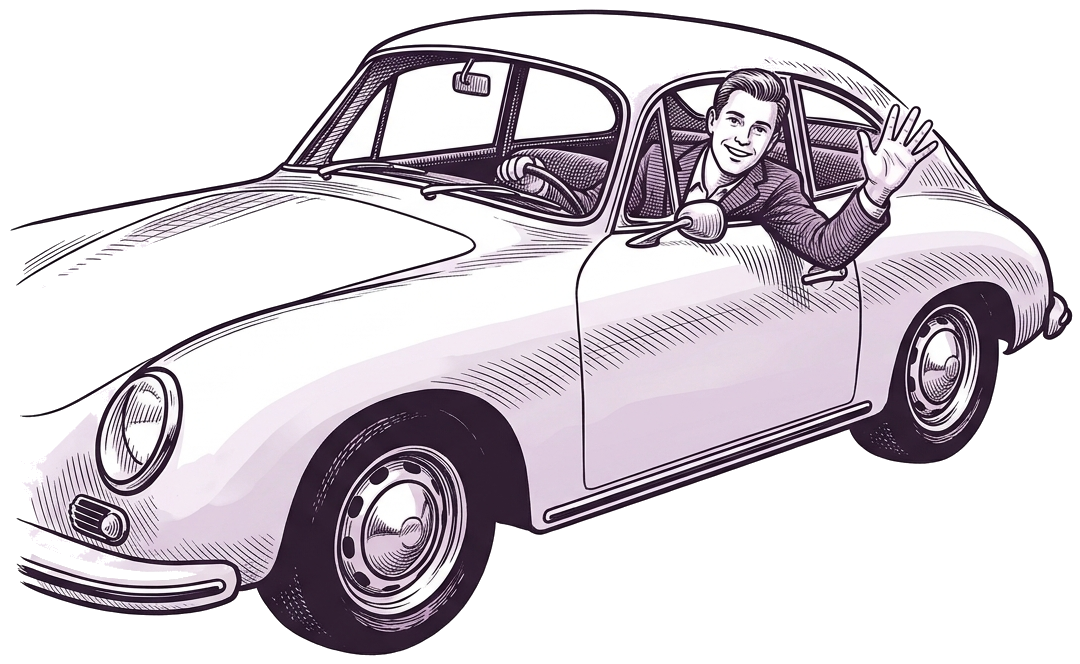
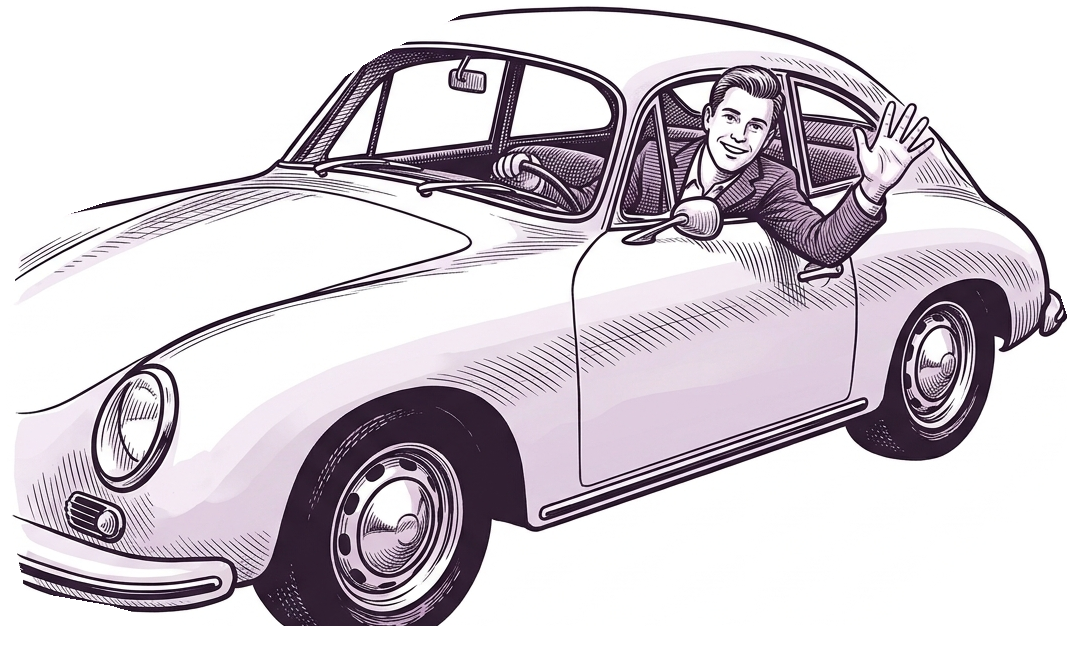
style(landing): refine serpentine S-curve highway and position opaque car above road

Changed region(s): [[0.0, 0.0, 1.0, 1.0], [0.0, 0.3333, 0.0307, 0.3636]]

diff --git a/src/app/auth/login/page.tsx b/src/app/auth/login/page.tsx
@@ -296,53 +296,63 @@ export default function LoginPage() {
               className="opacity-95 dark:opacity-85"
             />
 
-            {/* THE ROAD: Sweeping Highway Perspective from Right Horizon into Foreground */}
+            {/* SERPENTINE S-HIGHWAY: Gentle undulating curves (S-structure) */}
             {/* Road Bed / Shadow Base */}
             <path
-              d="M 940 360 C 780 430, 520 540, 40 900 L 460 900 C 740 650, 910 500, 1010 360 Z"
+              d="M 890 260 
+                 C 740 360, 560 480, 600 580 
+                 C 640 680, 360 780, 160 900 
+                 L 580 900 
+                 C 740 800, 780 700, 740 600 
+                 C 700 500, 840 370, 950 260 Z"
               fill="var(--spark-border)"
               filter="url(#roadShadow)"
-              className="opacity-80 dark:opacity-50"
+              className="opacity-75 dark:opacity-40"
             />
 
             {/* Road Surface */}
             <path
-              d="M 950 360 C 790 432, 538 544, 70 900 L 430 900 C 715 652, 895 502, 1000 360 Z"
+              d="M 895 260 
+                 C 745 362, 568 482, 608 580 
+                 C 648 678, 370 782, 180 900 
+                 L 560 900 
+                 C 725 798, 768 698, 730 600 
+                 C 692 502, 835 372, 945 260 Z"
               fill="var(--spark-surface-selected)"
-              className="opacity-90 dark:opacity-80"
+              className="opacity-95 dark:opacity-85"
             />
 
             {/* Solid Road Curbs (Inner & Outer) */}
             <path
-              d="M 950 360 C 790 432, 538 544, 70 900"
+              d="M 895 260 C 745 362, 568 482, 608 580 C 648 678, 370 782, 180 900"
               stroke="var(--spark-border)"
               strokeWidth="2.5"
-              className="opacity-80 dark:opacity-40"
+              className="opacity-80 dark:opacity-50"
             />
             <path
-              d="M 1000 360 C 895 502, 715 652, 430 900"
+              d="M 945 260 C 835 372, 692 502, 730 600 C 768 698, 725 798, 560 900"
               stroke="var(--spark-border)"
               strokeWidth="2.5"
-              className="opacity-80 dark:opacity-40"
+              className="opacity-80 dark:opacity-50"
             />
 
-            {/* Dashed Center Dividing Lane Markings */}
+            {/* Dashed Center Dividing Lane Markings along S-Curve */}
             <path
-              d="M 975 360 C 842 467, 626 598, 250 900"
+              d="M 920 260 C 790 367, 630 492, 669 590 C 708 688, 548 790, 370 900"
               stroke="var(--spark-canvas)"
               strokeWidth="4"
               strokeDasharray="24 16"
               strokeLinecap="round"
-              className="opacity-90 dark:stroke-[#E6DFD5]/50"
+              className="opacity-90 dark:stroke-[#E6DFD5]/40"
             />
           </svg>
         </div>
 
         {/* Tire Contact Shadow for physical grounding */}
-        <div className="absolute bottom-[10px] right-[40px] xl:right-[80px] 2xl:right-[120px] w-[580px] xl:w-[680px] 2xl:w-[760px] h-[55px] bg-[radial-gradient(ellipse_at_50%_50%,rgba(74,53,79,0.35)_0%,rgba(74,53,79,0)_72%)] dark:bg-[radial-gradient(ellipse_at_50%_50%,rgba(0,0,0,0.6)_0%,rgba(0,0,0,0)_72%)] z-10 pointer-events-none" />
+        <div className="absolute bottom-[24px] right-[40px] xl:right-[70px] 2xl:right-[100px] w-[580px] xl:w-[680px] 2xl:w-[760px] h-[55px] bg-[radial-gradient(ellipse_at_50%_50%,rgba(74,53,79,0.35)_0%,rgba(74,53,79,0)_72%)] dark:bg-[radial-gradient(ellipse_at_50%_50%,rgba(0,0,0,0.6)_0%,rgba(0,0,0,0)_72%)] z-10 pointer-events-none" />
 
-        {/* Mascot Illustration: Transparent retro car driving along highway */}
-        <div className="relative z-10 w-full max-w-[620px] lg:max-w-[680px] xl:max-w-[760px] 2xl:max-w-[840px] mr-[-10px] xl:mr-[20px] 2xl:mr-[60px] mb-[-12px] pointer-events-none">
+        {/* Mascot Illustration: Transparent retro car riding above highway */}
+        <div className="relative z-10 w-full max-w-[620px] lg:max-w-[680px] xl:max-w-[760px] 2xl:max-w-[840px] mr-[10px] xl:mr-[40px] 2xl:mr-[80px] mb-[15px] pointer-events-none">
           <img
             src="/images/welcome_car_transparent.png"
             alt="SPARK Welcome Mascot — Driving vintage car along highway"
